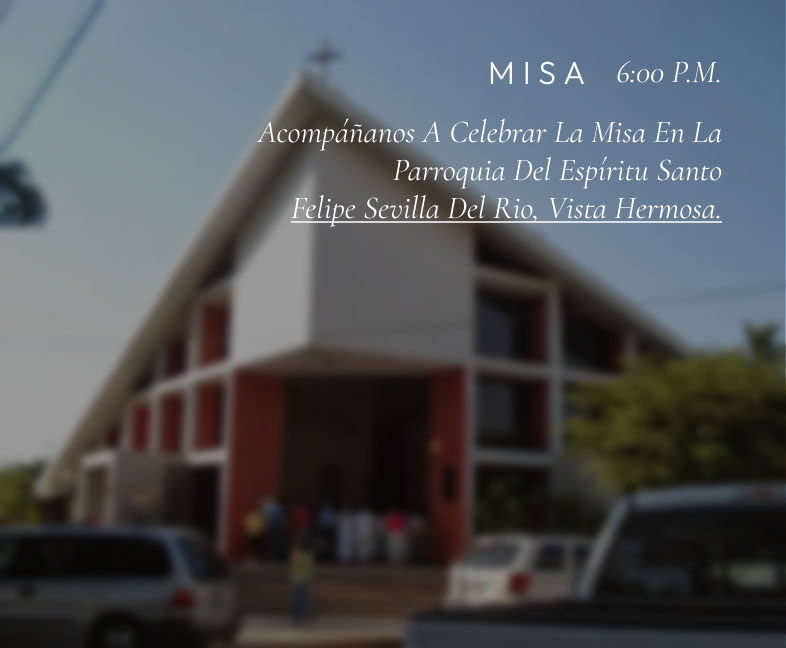
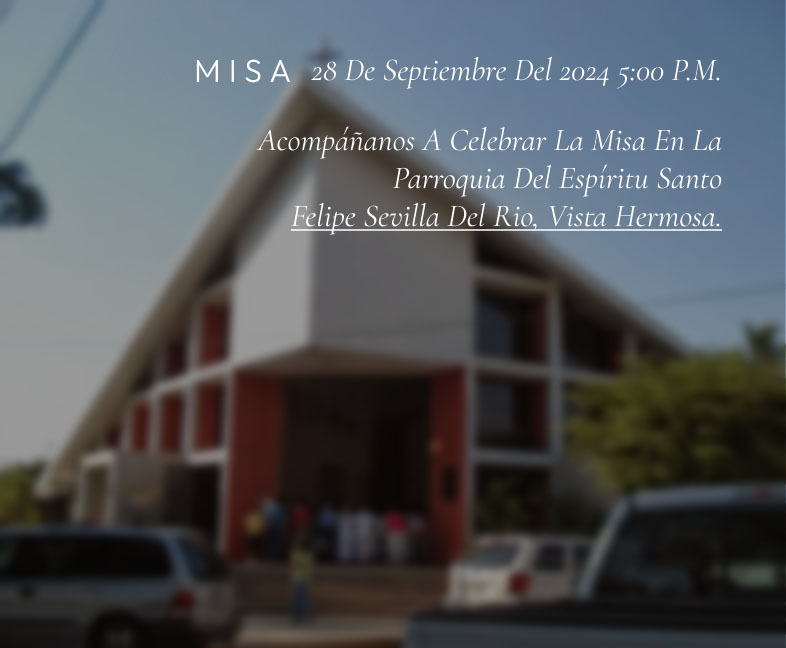
addition: date of the event

Changed region(s): [[0.3359, 0.1852, 0.916, 0.3704], [0.3969, 0.0926, 0.916, 0.1235], [0.2443, 0.0926, 0.3664, 0.1235]]

diff --git a/index.html b/index.html
@@ -64,15 +64,14 @@
 
         <section class="schedule">
             <h3>CRONOGRAMA</h3>
-            <p>Misa 6:00 P.M.<br>Fiesta 8:00 P.M.<br>Vals 8:30 P.M.<br>Cena 9:30 P.M.<br>Mariachi 12:00 A.M.<br>Fin de
+            <p>Misa 5:00 P.M.<br>Fiesta 7:00 P.M.<br>Recepción 7:00 - 8:00 P.M.<br>Vals 8:00 P.M.<br>Brindis 8:30 P.M.<br>Cena 9:00 P.M.<br>Baile Sorpresa 9:30 P.M.<br>Se abre pista de baile 9:40 P.M.<br>Partida de Pastel 11:45 P.M.<br>Mañanitas 12:00 A.M.<br>Fin de
                 la noche 12:30 A.M.</p>
         </section>
 
         <section class="notes">
             <h3>NOTAS</h3>
             <ul>
-                <li>Agradecemos de todo corazón tu asistencia tanto a la misa como a la fiesta, ya que tu lugar es
-                    especial para nosotros.</li>
+                <li>Agradecemos de todo corazón tu asistencia y, si lo deseas, tu contribución en efectivo será muy apreciada.</li>
                 <li>No usar vestidos color azul marino o parecidos.</li>
             </ul>
 
